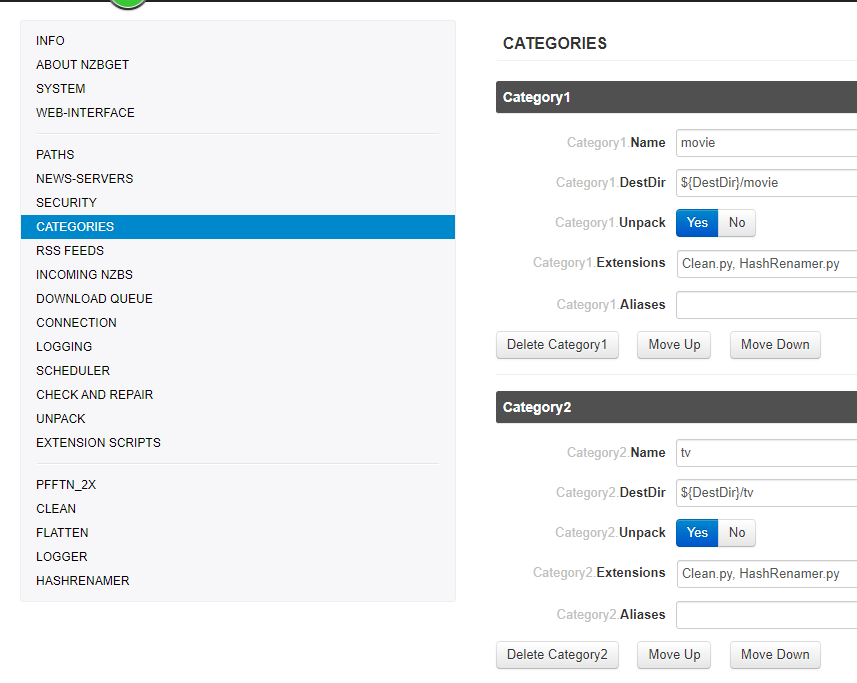
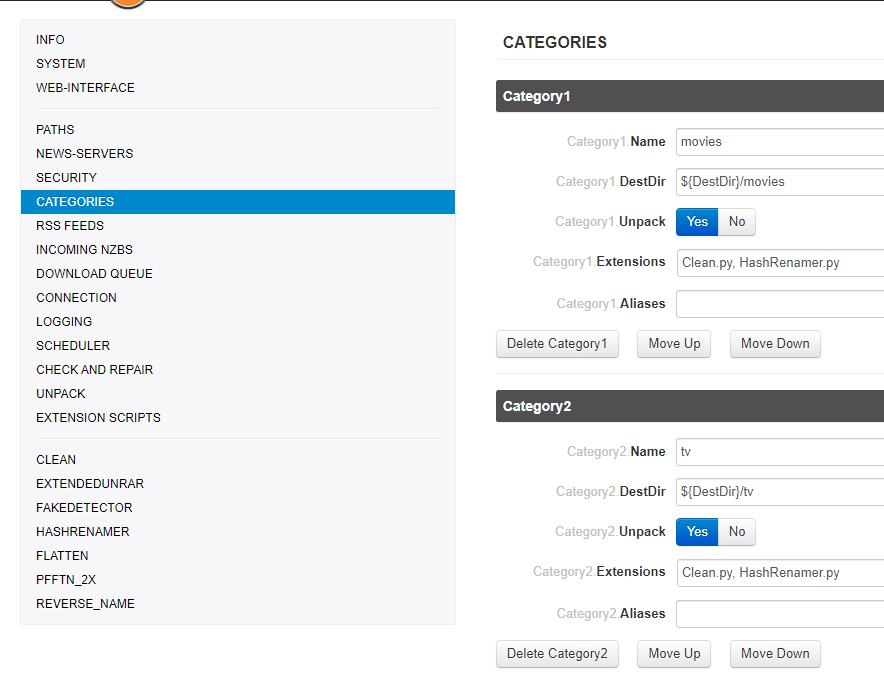
Fixed: Consistent in screenshot and table

diff --git a/docs/Downloaders/NZBGet/Basic-Setup.md b/docs/Downloaders/NZBGet/Basic-Setup.md
@@ -51,7 +51,7 @@ I will only explain the so called most important paths.
 | Name          | Description                                                                            |
 |:---           |:---                                                                                    |
 | `Name`        | This should match what you put in Sonarr/Radarr (tv/movies/sonarr/radarr/series/films) |
-| `DestDir`     | `${DestDir}` Destination directory (/data/usenet/movie)                     |
+| `DestDir`     | `${DestDir}` Destination directory (/data/usenet/movies)                     |
 | `Unpack`      | Unpack downloaded nzb-files.                                                           |
 | `Extensions`  | List of extension scripts for this category.                                           |
 
